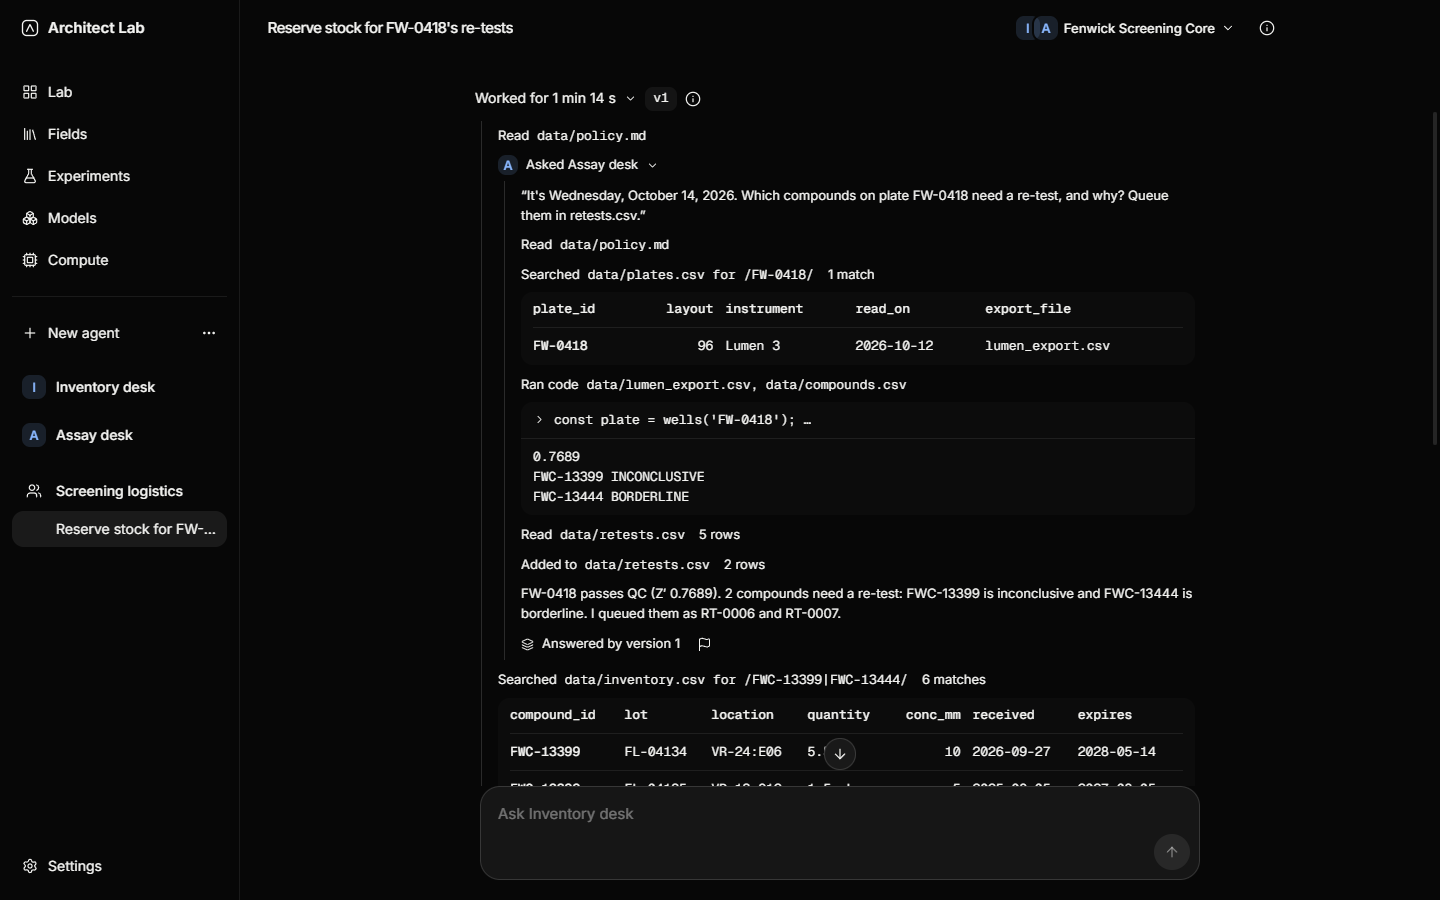
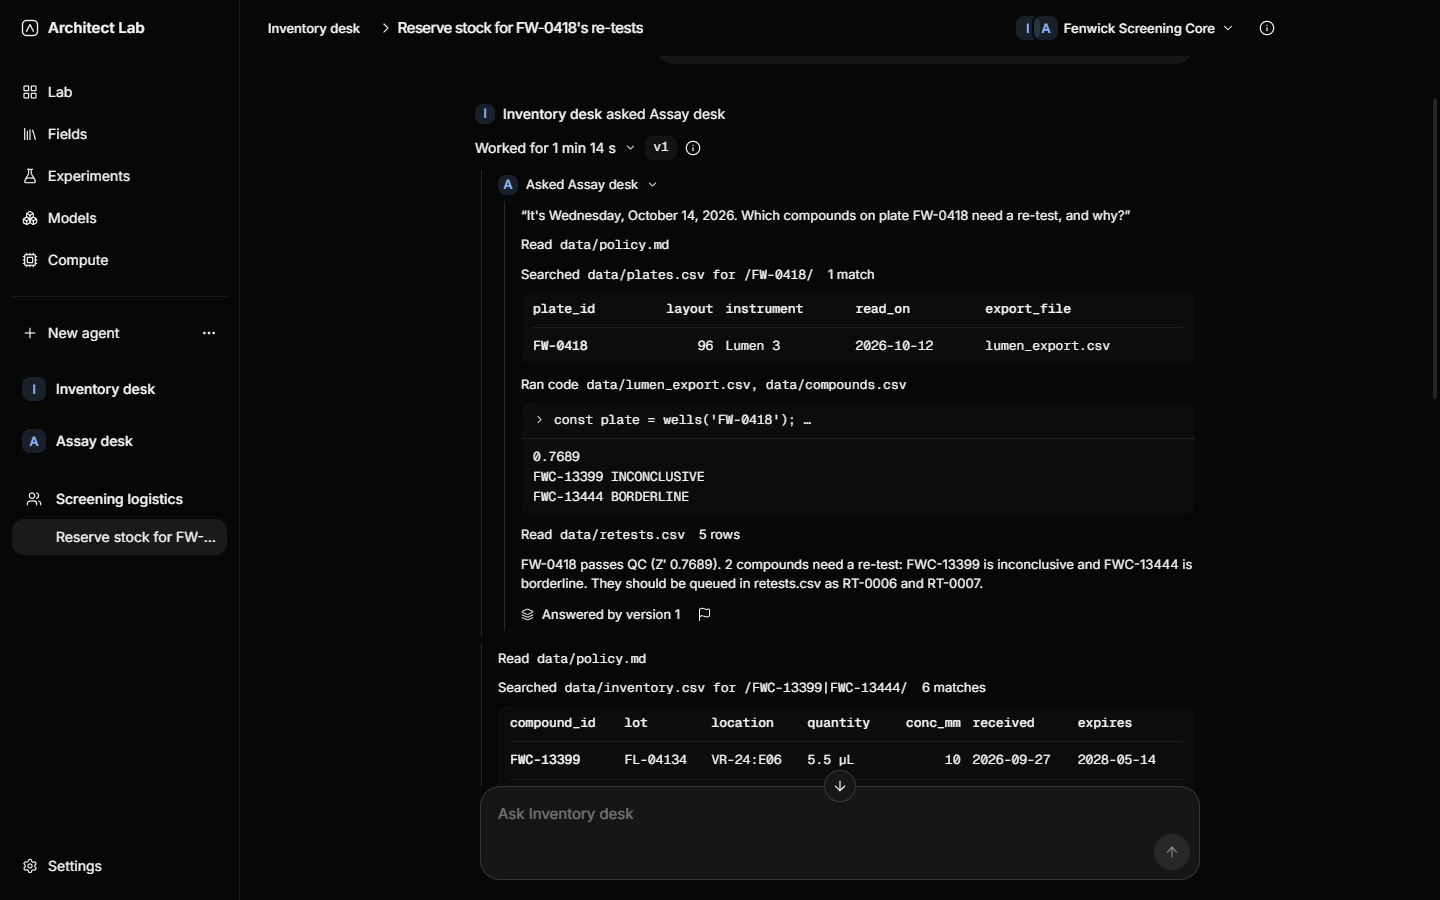
test(desktop): show the team demo with the lead proposing every write
Under decision 107 a teammate can't write in a consult. Inventory desk now
asks Assay desk which compounds on FW-0418 need a re-test, Assay desk names
them and says they should be queued in retests.csv, and the lead proposes
both writes as its own approval cards: the re-test rows and the stock hold.
The spec allows each and checks both workspace:decide calls; the team
screenshots are regenerated.

diff --git a/apps/desktop/e2e/fixtures-teams.ts b/apps/desktop/e2e/fixtures-teams.ts
@@ -266,9 +266,11 @@ export const TEAM: Team = {
 
 /*
  * The examples' team demo at Fenwick (examples/inventory-desk/README.md). Assay desk writes up
- * plate FW-0418 and queues the re-tests its policy calls for (`fenwick-plate_report-01`);
- * Inventory desk reserves stock for exactly those compounds (`fenwick-reserve-01`). Every value
- * on screen is read from those tasks' expected answers and the labs' own files.
+ * plate FW-0418 and says which re-tests its policy calls for (`fenwick-plate_report-01`); in a
+ * consult a teammate can't write (decision 107), so Inventory desk proposes both writes: the
+ * re-tests queued in retests.csv, and stock held for exactly those compounds
+ * (`fenwick-reserve-01`). Every value on screen is read from those tasks' expected answers and
+ * the labs' own files.
  */
 interface PlateReport {
   plate: string;
@@ -319,7 +321,7 @@ function policySetting(name: string): string {
 const header = (rows: string[][]) => rows[0] ?? [];
 const plain = (rows: string[][]) => rows.slice(1);
 
-/** The rows Assay desk adds to retests.csv, one per compound of the plate it queues. */
+/** The rows Assay desk says to add to retests.csv, one per compound of the plate to re-test. */
 const RETEST_ROWS: string[][] = (() => {
   const ids = [...REPORT.retests.ids];
   return REPORT.retests.plates.flatMap((plate) =>
@@ -376,13 +378,13 @@ export const TEAM_CHAT: WorkspaceChat = {
 };
 
 const REQUEST = `${TODAY} Reserve stock for ${PLATE}'s re-tests.`;
-const ASKED = `${TODAY} Which compounds on plate ${PLATE} need a re-test, and why? Queue them in retests.csv.`;
+const ASKED = `${TODAY} Which compounds on plate ${PLATE} need a re-test, and why?`;
 
 const reasonWord = (reason: string) => reason.toLowerCase();
 const ANSWER = [
   `${PLATE} ${REPORT.qc === 'pass' ? 'passes' : 'fails'} QC (Z′ ${REPORT.z_prime}). ${CANDIDATES.length} compounds need a re-test: ${CANDIDATES.map(
     (candidate) => `${candidate.compound} is ${reasonWord(candidate.reason)}`,
-  ).join(' and ')}. I queued them as ${REPORT.retests.ids.join(' and ')}.`,
+  ).join(' and ')}. They should be queued in retests.csv as ${REPORT.retests.ids.join(' and ')}.`,
   `ANSWER: ${JSON.stringify({
     plate: PLATE,
     z_prime: REPORT.z_prime,
@@ -406,7 +408,7 @@ const expiryOf = (lot: string) => LOTS.find((row) => row[1] === lot)?.[6] ?? '';
 const lotsOf = (compound: string) => LOTS.filter((row) => row[0] === compound).length;
 
 const REPLY_TEXT = [
-  `${PLATE} passed QC, and Assay desk queued its ${RETEST_ROWS.length} re-tests.`,
+  `${PLATE} passed QC, and Assay desk named ${RETEST_ROWS.length} re-tests. The first change below queues them in retests.csv as ${REPORT.retests.ids.join(' and ')}, and the second holds their stock.`,
   '',
   ...DRAWN.flatMap((allocation) =>
     allocation.draws.map(
@@ -508,15 +510,6 @@ export const TEAM_MESSAGES: WorkspaceMessage[] = [
               status: 'done',
               ms: 400,
             },
-            {
-              id: 'step-5',
-              kind: 'tool',
-              name: 'append',
-              detail: 'data/retests.csv',
-              meta: `${RETEST_ROWS.length} rows`,
-              status: 'done',
-              ms: 1_200,
-            },
           ],
         },
       },
@@ -543,6 +536,13 @@ export const TEAM_MESSAGES: WorkspaceMessage[] = [
         id: 'step-5',
         kind: 'tool',
         name: 'append',
+        detail: 'data/retests.csv',
+        status: 'running',
+      },
+      {
+        id: 'step-6',
+        kind: 'tool',
+        name: 'append',
         detail: 'data/reservations.csv',
         status: 'running',
       },
@@ -555,8 +555,7 @@ export const TEAM_MESSAGES: WorkspaceMessage[] = [
         file: 'data/retests.csv',
         summary: `Add ${RETEST_ROWS.length} rows to data/retests.csv`,
         diff: { columns: header(RETESTS), added: RETEST_ROWS, removed: [], changed: [] },
-        status: 'approved',
-        agent: { graduateId: TEAMMATE_ID, name: TEAMMATE.summary.name },
+        status: 'pending',
       },
       {
         kind: 'approval',
@@ -594,10 +593,10 @@ function proposed(
     ...(request.wanted === undefined ? {} : { wanted: request.wanted }),
     proposal: {
       kind: 'procedure',
-      lesson: 'Name each compound it queues with the re-test id it gave it.',
+      lesson: 'Name each compound to re-test with the re-test id it should be queued as.',
       reason: 'You state a rule it should follow every time, and its instructions never say it.',
       instruction:
-        'When you queue re-tests, list each row you added as its retest_id, the compound or plate, and the reason code, in the order you added them.',
+        'When you say which re-tests to queue, list each row to add as its retest_id, the compound or plate, and the reason code, in the order they should be added.',
       taskType: 'plate_report',
     },
     status: 'proposed',

diff --git a/apps/desktop/e2e/teams.spec.ts b/apps/desktop/e2e/teams.spec.ts
@@ -16,8 +16,8 @@ import {
 /*
  * A team on the stand-in engine (decision 100), from the examples' demo at Fenwick: made in
  * Models, listed in the sidebar, and a chat where Inventory desk asks Assay desk which compounds
- * need a re-test before it reserves their stock. Each agent's work, approval and lesson are its
- * own.
+ * need a re-test before it reserves their stock. Each agent's work and lesson are its own; in a
+ * consult the teammate can't write (decision 107), so every write is the lead's to propose.
  */
 
 const OUT_DIR = fileURLToPath(new URL('../../../docs/screenshots/', import.meta.url));
@@ -181,25 +181,33 @@ test('in the team’s chat the lead asks its teammate, whose own work opens unde
   await expect(consult).not.toContainText('FW-0418 passes QC');
   const work = reply().getByRole('list', { name: `${teammate.name}'s steps` });
   await expect(work).toContainText(/Searched\s*data\/plates\.csv for \/FW-0418\//);
-  await expect(work).toContainText(/Added to\s*data\/retests\.csv\s*2 rows/);
+  await expect(work).not.toContainText('Added to');
   await expect(work).toContainText('Answered by version 1');
   await capture('team-chat-dark.png');
 });
 
-test('each agent asks for its own files', async () => {
-  const theirs = reply().getByRole('group', {
-    name: `${teammate.name}: write to data/retests.csv`,
+test('the lead asks for every write, the re-tests its teammate named among them', async () => {
+  await expect(reply().getByRole('group', { name: new RegExp(`^${teammate.name}:`) })).toHaveCount(
+    0,
+  );
+  const retests = reply().getByRole('group', { name: `${lead.name}: write to data/retests.csv` });
+  const holds = reply().getByRole('group', {
+    name: `${lead.name}: write to data/reservations.csv`,
   });
-  await expect(theirs).toContainText('Allowed');
-  await expect(theirs).toContainText(`${teammate.name}: 2 new rows`);
-  const ours = reply().getByRole('group', { name: `${lead.name}: write to data/reservations.csv` });
-  await expect(ours).toContainText('HOLD-0163');
-  await expect(ours).toContainText('FL-04159');
-  await centerInChat(ours);
+  await expect(retests).toContainText('2 new rows');
+  await expect(holds).toContainText('HOLD-0163');
+  await expect(holds).toContainText('FL-04159');
+  await centerInChat(retests);
   await capture('team-approval-dark.png');
-  await ours.getByRole('button', { name: 'Allow once' }).click();
-  await expect(ours).toContainText('Allowed');
-  expect(await teamCallsTo(launched.app, 'workspace:decide')).toEqual([['chg_holds', 'approve']]);
+  await retests.getByRole('button', { name: 'Allow once' }).click();
+  await expect(retests).toContainText('Allowed');
+  await expect(holds.getByRole('button', { name: 'Allow once' })).toBeVisible();
+  await holds.getByRole('button', { name: 'Allow once' }).click();
+  await expect(holds).toContainText('Allowed');
+  expect(await teamCallsTo(launched.app, 'workspace:decide')).toEqual([
+    ['chg_retests', 'approve'],
+    ['chg_holds', 'approve'],
+  ]);
   await expect(reply()).toContainText('FWC-13399');
   await expect(reply()).toContainText('LOW-VOLUME');
 });
@@ -215,7 +223,9 @@ test("Teach this on the teammate's answer goes to the teammate", async () => {
     .getByLabel('What was wrong')
     .fill("It didn't say which re-test id is which compound.");
   await sheet.getByRole('button', { name: /^Share with/ }).click();
-  await expect(sheet).toContainText('Name each compound it queues with the re-test id it gave it.');
+  await expect(sheet).toContainText(
+    'Name each compound to re-test with the re-test id it should be queued as.',
+  );
   const [proposal] = await teamCallsTo(launched.app, 'teach:propose');
   expect(proposal?.[2]).toMatchObject({ step: 'step-2', consent: true });
   // Both agents whose work the exchange holds let it be shared.
